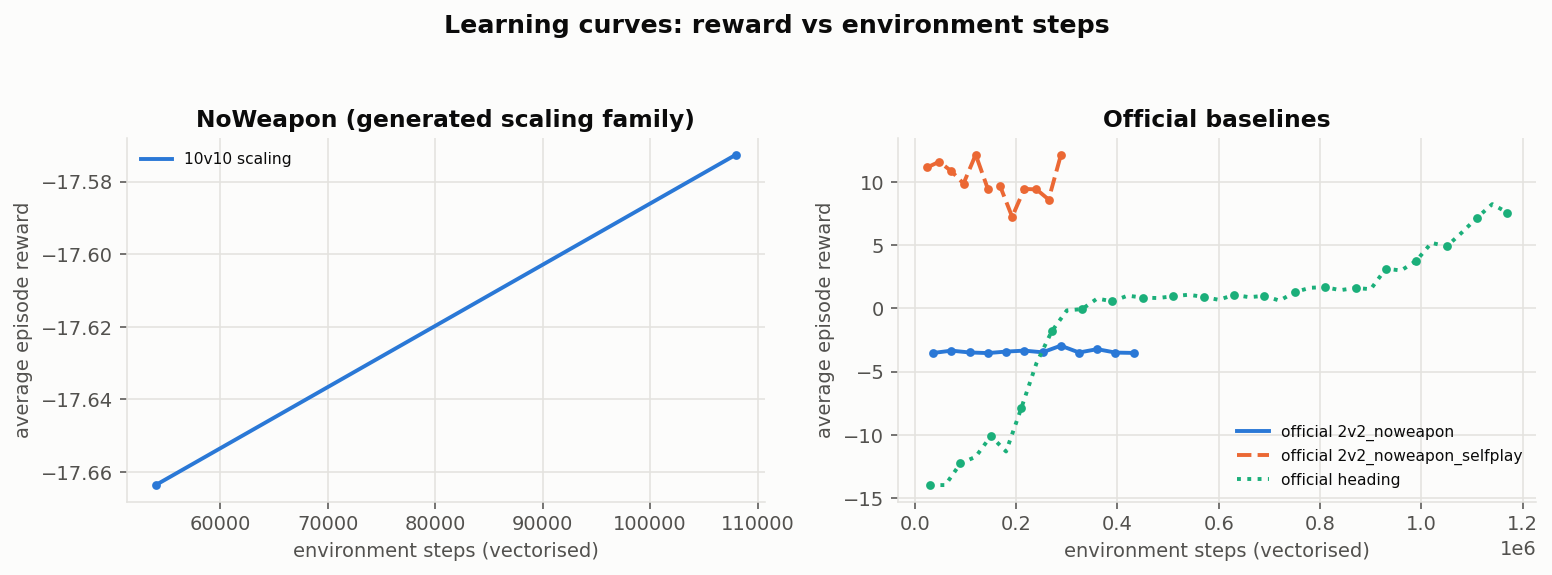
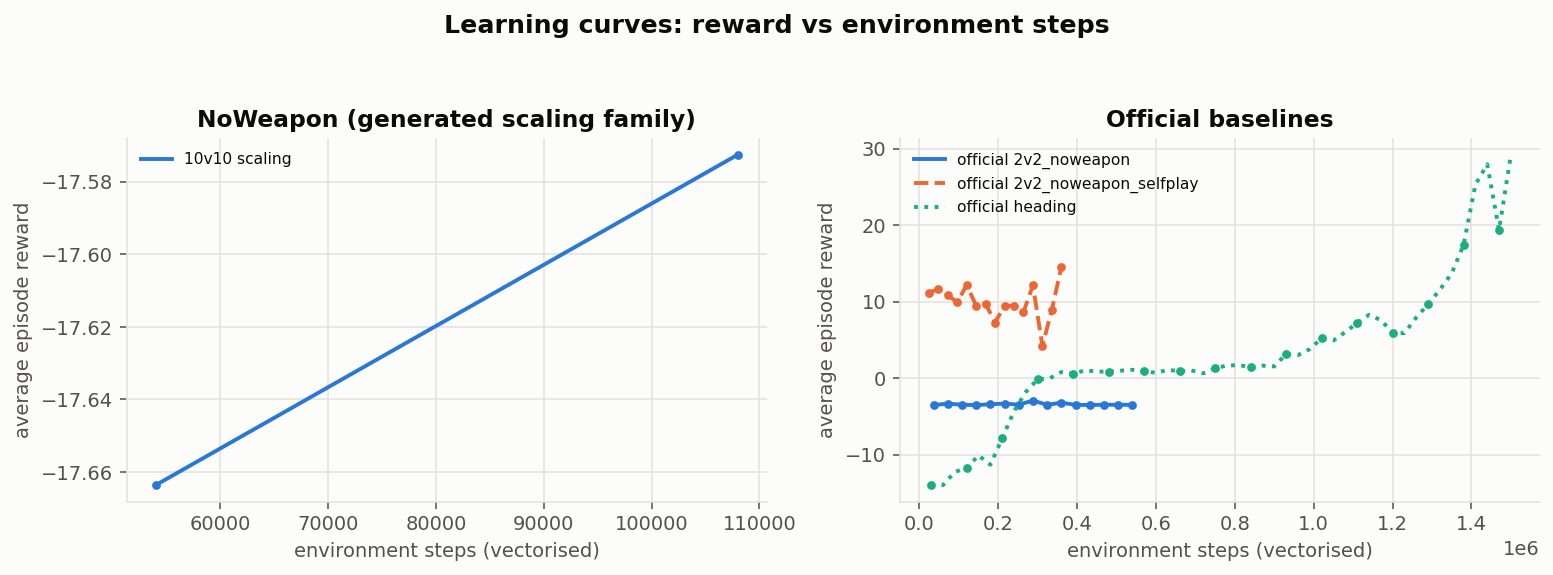
功能：扩展表中加入 wall-clock 归一化
加入 brief 第 5 问（"wall-clock 效率是否退化？"）真正需要的量，由 FPS 和线程数推导：
  每个向量化 rollout step 的秒数 = threads / FPS
  每 3000 步 rollout episode 的秒数
  agent-steps/s，以及每 rollout 线程的 agent-steps/s

每线程值是唯一公平的跨 scale 数字，因为各 scale 的线程数按设计本就不同（按实测开销配置）。

当前读数：
  3v3（10 线程）： 0.0645 s/vec-step，194 s/rollout-episode，930 agent-steps/s
  10v10（18 线程）：0.34 s/vec-step， 1019 s/rollout-episode，1060 agent-steps/s

另外说明 "learnable?" 列现在把 3v3 scaling run 标为改善（train reward -5.43 -> -0.567，330k 步尾部斜率 +1.48），而官方 2v2 run 仍然持平——记为数据而非解读：各自只有一个 seed，且它们在 seed、场景和线程数上都不同。

diff --git a/experiments/2026-10-04-night/scripts/scaling_table.py b/experiments/2026-10-04-night/scripts/scaling_table.py
@@ -91,6 +91,14 @@ def main():
         if variant == "shoot" and obs_dim is not None:
             obs_dim = 12 * n + 9
             share_dim = 2 * n * obs_dim
+        fps = fnum(s.get("fps_last"))
+        thr = fnum(s.get("n_rollout_threads"))
+        # Wall-clock normalisations. FPS counts *individual* env-steps/s summed
+        # over the rollout threads, so:
+        #   seconds per vectorised rollout step = threads / FPS
+        #   agent-steps/s = FPS * total_agents
+        # Thread counts differ between scales (they were sized to the measured
+        # cost), so the per-thread figure is the only fair cross-scale one.
         rows.append({
             "scale": f"{n}v{n}",
             "variant": variant,
@@ -103,6 +111,10 @@ def main():
             "n_rollout_threads": s.get("n_rollout_threads"),
             "seed": s.get("seed"),
             "fps": s.get("fps_last"),
+            "sec_per_vectorised_step": (round(thr / fps, 5) if (fps and thr) else None),
+            "sec_per_rollout_episode": (round(3000 * thr / fps, 1) if (fps and thr) else None),
+            "agent_steps_per_s": (round(fps * 2 * n, 1) if fps else None),
+            "agent_steps_per_s_per_thread": (round(fps * 2 * n / thr, 1) if (fps and thr) else None),
             "env_steps": s.get("steps_done"),
             "episodes_logged": s.get("episodes_logged"),
             "train_reward_last": s.get("train_reward_last"),
@@ -132,7 +144,8 @@ def main():
         print(f"wrote {out} ({len(rows)} rows)\n")
 
     hdr = ["scale", "variant", "agents", "obs", "share_obs", "actor_p",
-           "critic_p", "thr", "seed", "FPS", "steps", "eps", "rew_first",
+           "critic_p", "thr", "seed", "FPS", "s/vec-step", "s/rollout-ep",
+           "agent-steps/s", "ag-steps/s/thr", "steps", "eps", "rew_first",
            "rew_last", "slope", "eval_rew", "value_loss", "critic_gn",
            "entropy", "NaN?", "learnable?"]
     print("| " + " | ".join(hdr) + " |")
@@ -151,7 +164,10 @@ def main():
         print("| " + " | ".join([
             r["scale"], r["variant"], str(r["total_agents"]), str(r["local_obs_dim"]),
             str(r["share_obs_dim"]), str(r["actor_params"]), str(r["critic_params"]),
-            str(r["n_rollout_threads"]), str(r["seed"]), g("fps"), str(r["env_steps"]),
+            str(r["n_rollout_threads"]), str(r["seed"]), g("fps"),
+            g("sec_per_vectorised_step", 3), g("sec_per_rollout_episode", 4),
+            g("agent_steps_per_s", 4), g("agent_steps_per_s_per_thread", 3),
+            str(r["env_steps"]),
             str(r["episodes_logged"]), g("train_reward_first"), g("train_reward_last"),
             ("-" if slope is None else f"{slope:+.3g}"), g("eval_reward_last"),
             g("critic_loss_value"), g("critic_grad_norm"), g("entropy_loss"),

diff --git a/experiments/2026-10-04-night/status/running_jobs.md b/experiments/2026-10-04-night/status/running_jobs.md
@@ -1,6 +1,6 @@
 # Running Jobs Snapshot
 
-Generated: 2026-10-04T02:53:13+08:00
+Generated: 2026-10-04T03:02:29+08:00
 
 ## tmux sessions
 
@@ -39,11 +39,11 @@ queue started gpu=2 at 2026-10-04T02:19:02+08:00
 
 | experiment | n_procs | total_cpu_pct | total_rss_gb |
 |---|---|---|---|
-| official_2v2_noweapon | 14 | 662% | 5.80 |
-| official_2v2_noweapon_selfplay | 10 | 408% | 4.20 |
-| official_heading | 12 | 321% | 4.74 |
-| scaling_10v10_noweapon | 20 | 1185% | 13.82 |
-| scaling_3v3_noweapon_s1 | 12 | 612% | 5.21 |
+| official_2v2_noweapon | 14 | 660% | 5.77 |
+| official_2v2_noweapon_selfplay | 10 | 407% | 4.19 |
+| official_heading | 12 | 323% | 4.75 |
+| scaling_10v10_noweapon | 20 | 1219% | 13.82 |
+| scaling_3v3_noweapon_s1 | 12 | 611% | 5.18 |
 
 ## Progress (from logs)
 
@@ -53,27 +53,27 @@ queue started gpu=2 at 2026-10-04T02:19:02+08:00
 | SMOKE_2v2 | 12000 | 240000 | 80. | -3.506592273712158 | -290.6607 |
 | SMOKE_heading | 36000 | 240000 | 234. | -13.130021528764205 | - |
 | SMOKE_vsbaseline | 24000 | 240000 | 145. | -210.46957859848484 | - |
-| official_2v2_noweapon | 432000 | 100000000 | 212. | -3.521298408508301 | -260.923 |
-| official_2v2_noweapon_selfplay | 288000 | 100000000 | 155. | 12.1150458984375 | 29.512 |
-| official_heading | 1170000 | 100000000 | 581. | 7.585162353515625 | - |
+| official_2v2_noweapon | 540000 | 100000000 | 211. | -3.4978345235188804 | -40.157967 |
+| official_2v2_noweapon_selfplay | 360000 | 100000000 | 154. | 14.481517727092161 | 15.312804 |
+| official_heading | 1500000 | 100000000 | 585. | 29.20049370659722 | - |
 | scaling_10v10_noweapon | 108000 | 900000 | 53. | -17.572593858506945 | -279.43216 |
-| scaling_3v3_noweapon_s1 | 240000 | 900000 | 155. | -4.58236083984375 | -165.4815 |
+| scaling_3v3_noweapon_s1 | 330000 | 900000 | 155. | -0.5674128214518229 | -136.22977 |
 
 ## GPUs
 
 ```
 index, utilization.gpu [%], memory.used [MiB], temperature.gpu
-0, 23 %, 1359 MiB, 34
-1, 12 %, 1405 MiB, 35
+0, 22 %, 1359 MiB, 34
+1, 14 %, 1405 MiB, 36
 2, 1 %, 994 MiB, 36
 ```
 
 ## Last system samples
 
 ```
-2026-10-04T02:52:03+08:00,42.75,42.27,14,58.9,1007.5,5,19,1359,7,1405,13,994
-2026-10-04T02:52:19+08:00,40.22,41.76,15,57.4,1007.5,5,42,1842,8,1405,0,994
-2026-10-04T02:52:35+08:00,38.19,41.21,20,53.0,1007.5,5,10,1359,3,1405,1,994
-2026-10-04T02:52:52+08:00,40.44,41.56,20,53.1,1007.5,5,18,1359,3,1405,0,994
-2026-10-04T02:53:08+08:00,40.22,41.46,16,53.1,1007.5,5,16,1359,9,1405,0,994
+2026-10-04T03:01:12+08:00,37.91,40.77,19,56.6,1007.5,5,23,1359,7,1405,0,994
+2026-10-04T03:01:28+08:00,37.80,40.60,21,56.6,1007.5,5,19,1359,3,1405,1,994
+2026-10-04T03:01:45+08:00,37.78,40.46,19,56.5,1007.5,5,16,1359,17,1405,0,994
+2026-10-04T03:02:01+08:00,37.00,40.17,17,56.5,1007.5,5,19,1359,11,1405,0,994
+2026-10-04T03:02:17+08:00,37.09,40.02,20,56.4,1007.5,5,23,1359,13,1405,0,994
 ```
